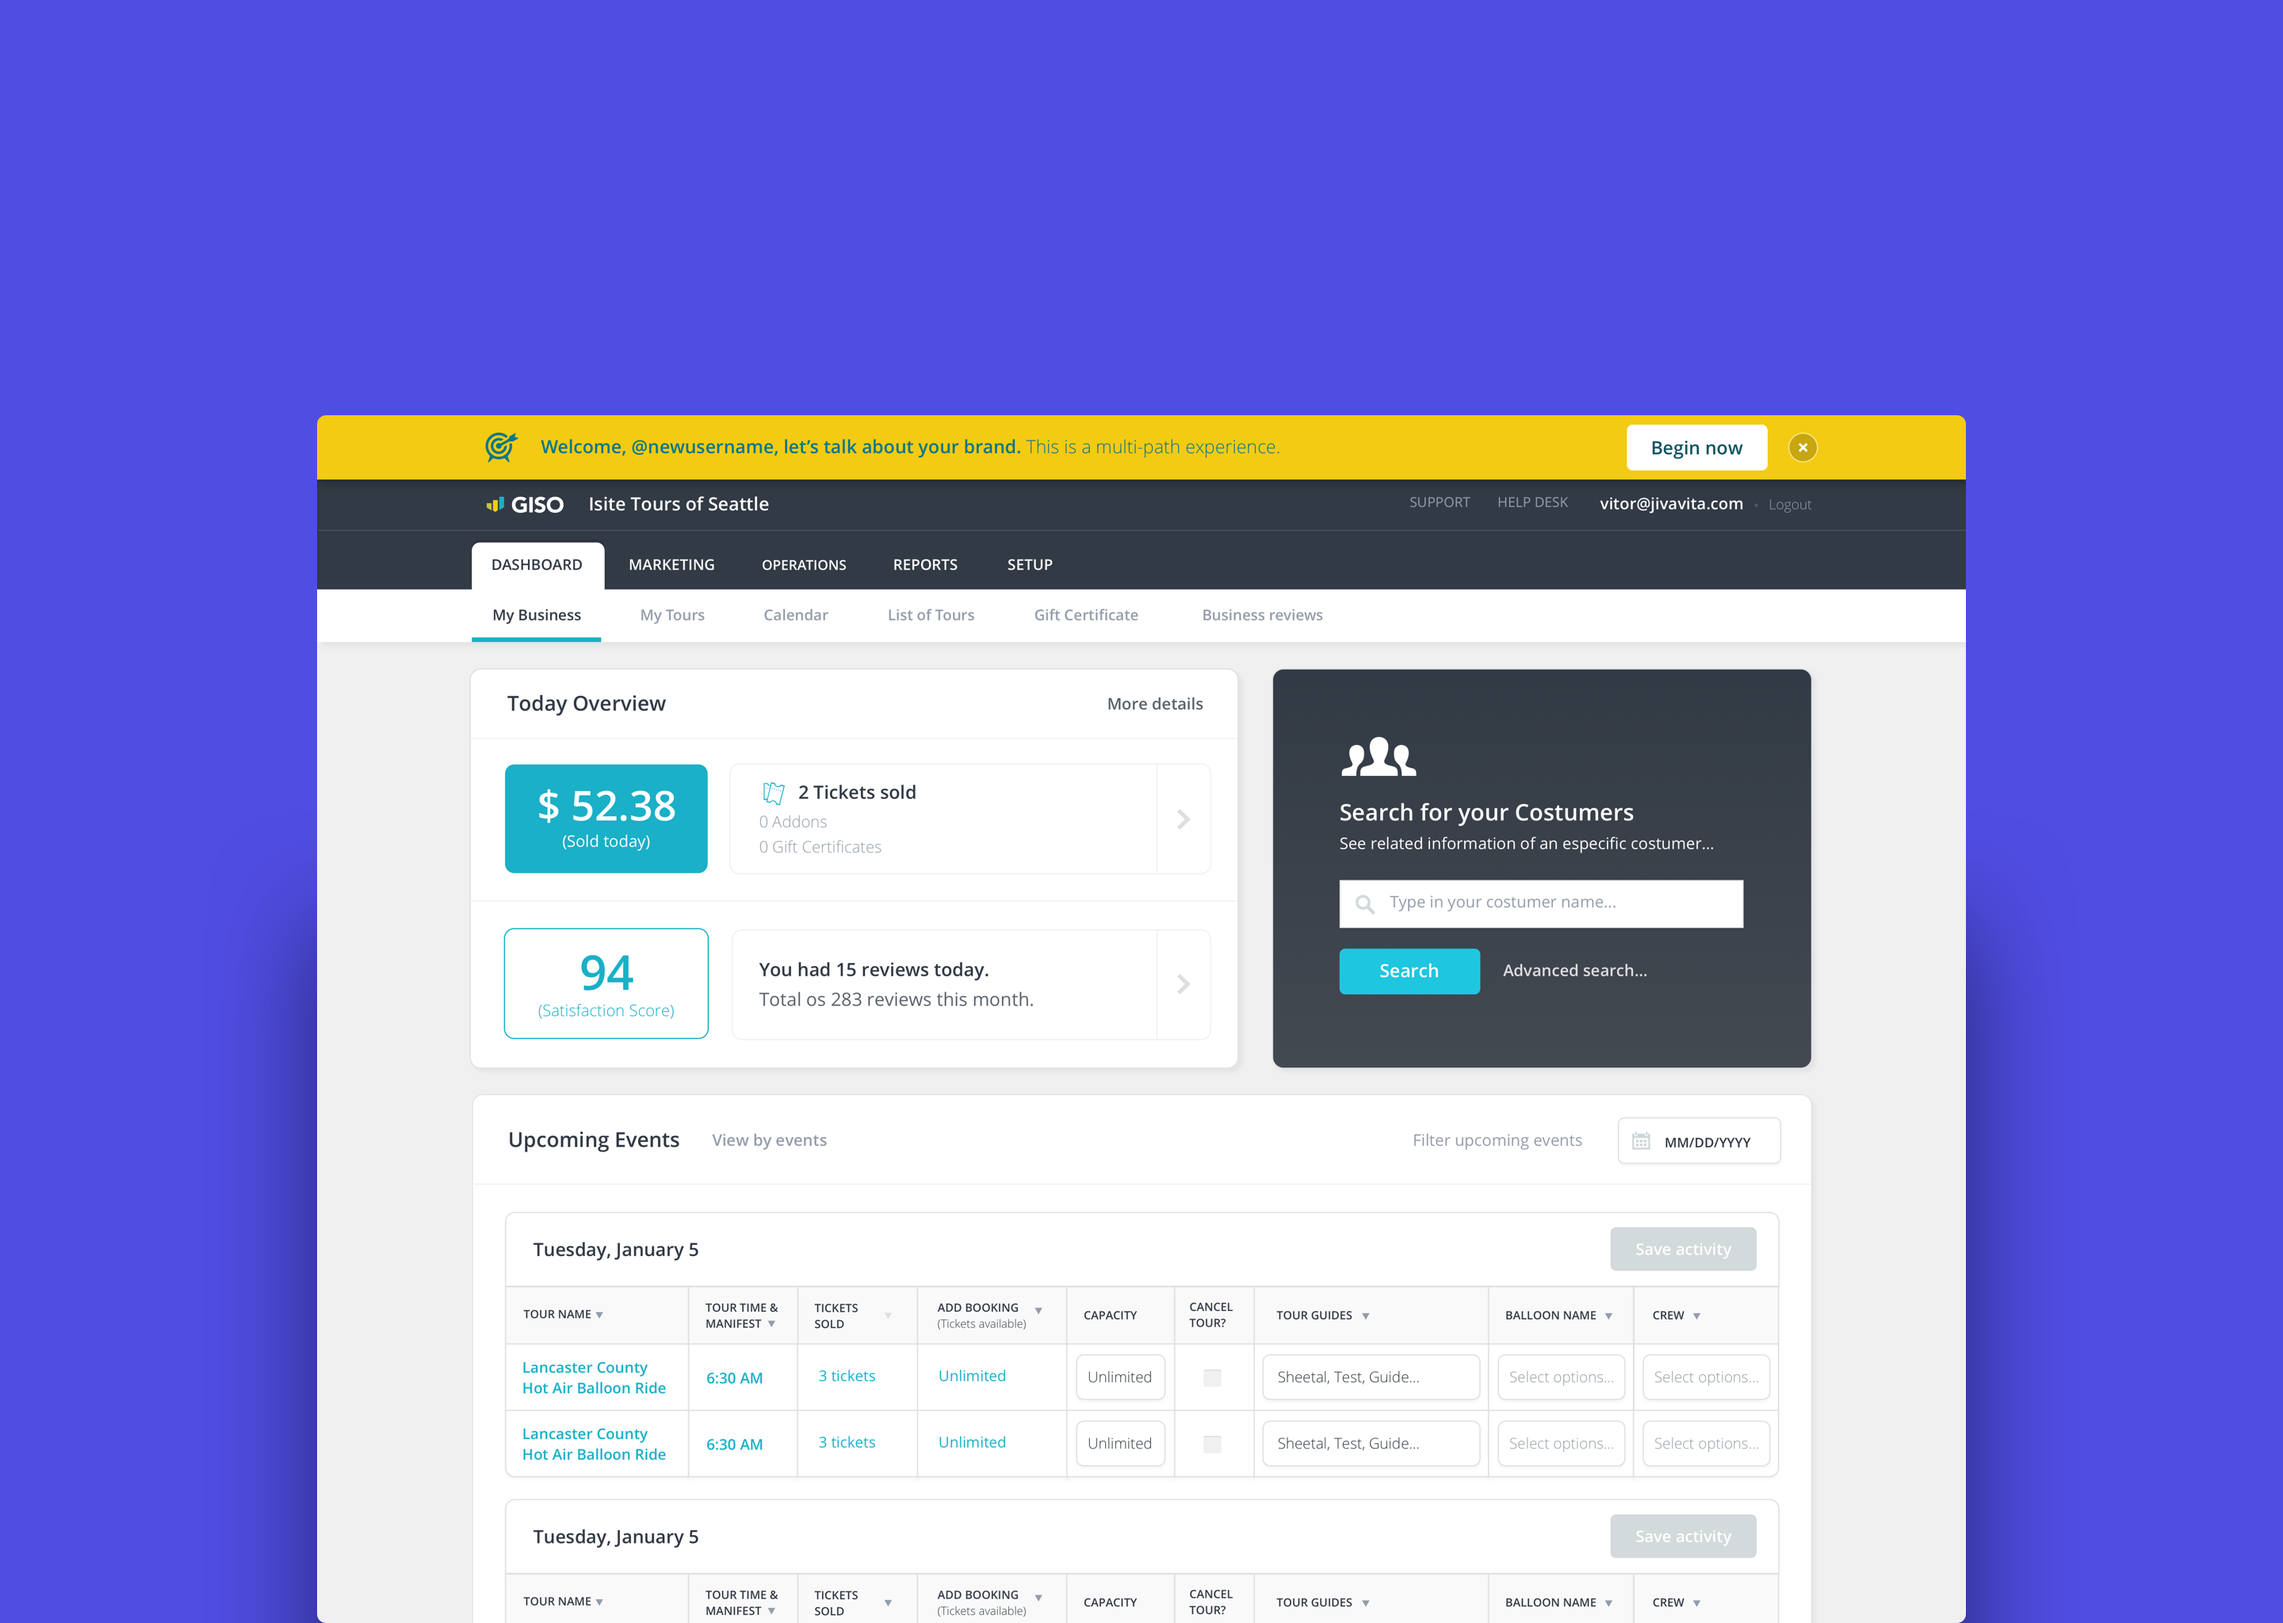
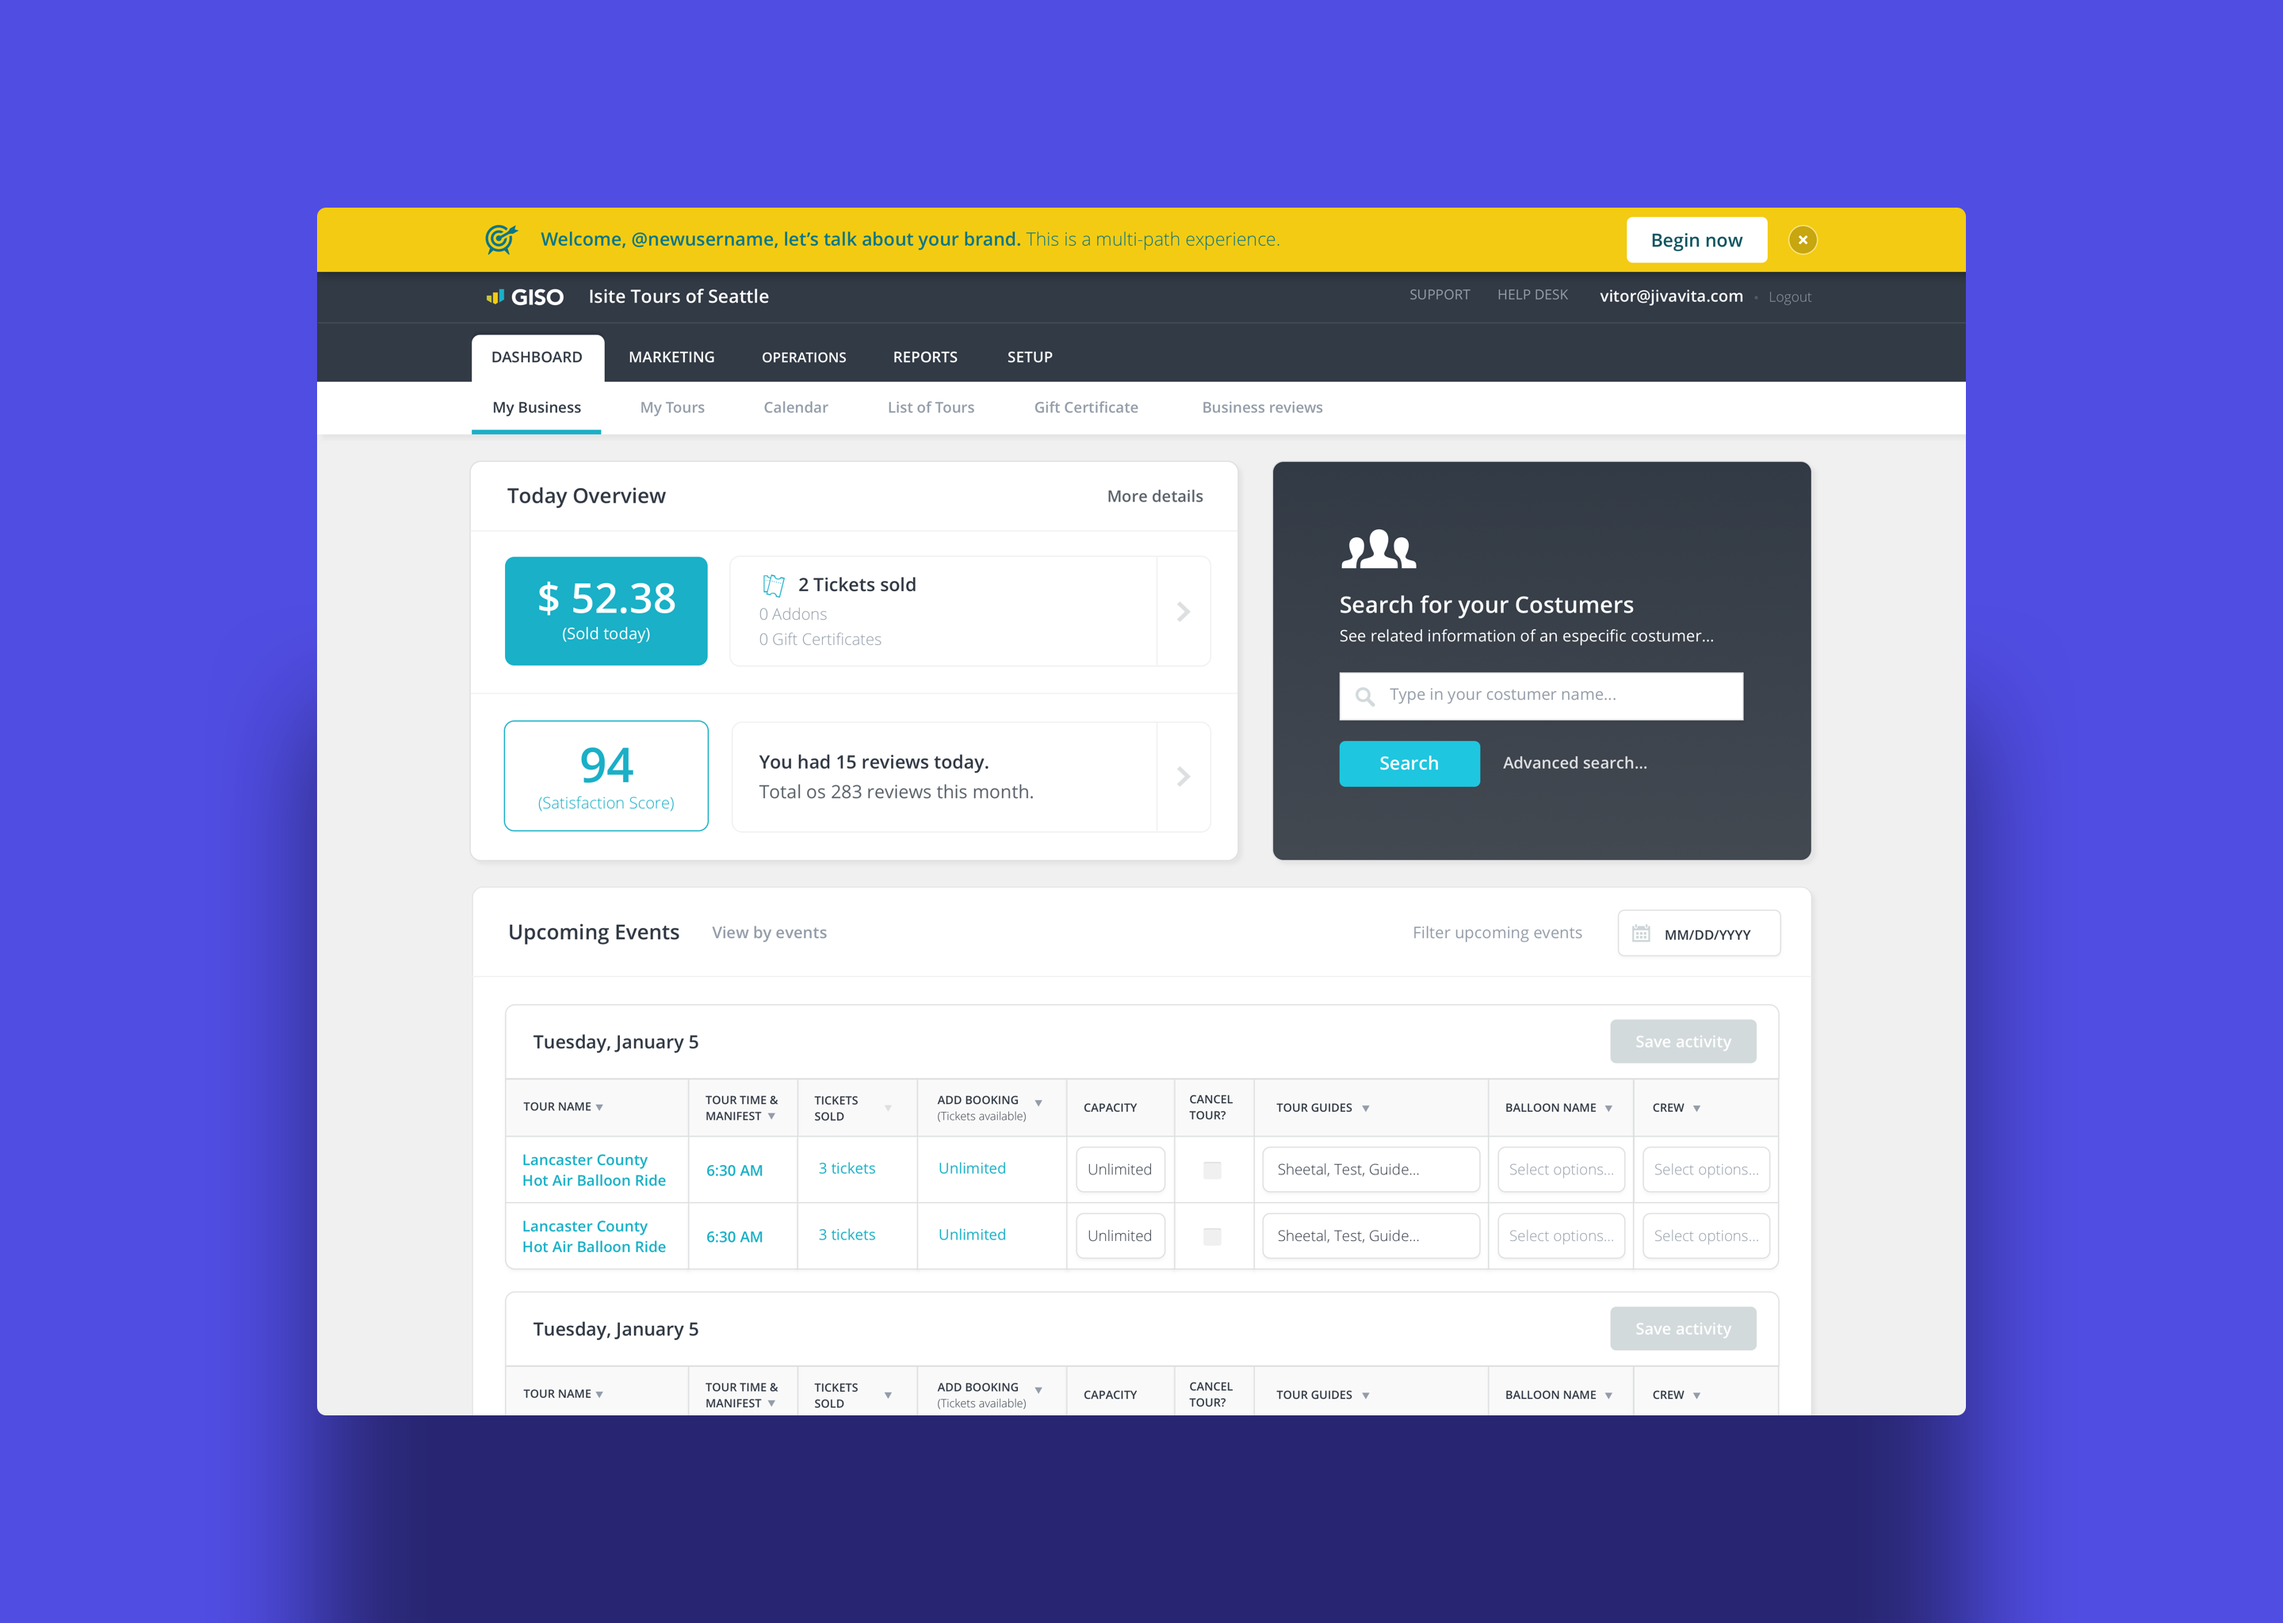
Adjusted Images

diff --git a/css/main.css b/css/main.css
@@ -132,7 +132,7 @@ footer .social-links a { margin: 0 88px 0 0; }
 /* Carousel */
 
 .carousel { margin-bottom: 32px; }
-.carousel-inner { overflow: hidden; background-color: #504DE3; max-height: 100vh; }
+.carousel-inner { overflow: hidden; background-color: #504DE3; height: 1024px; }
 .carousel-inner img { width: 100%; margin: 0 auto; }
 .carousel-control-prev, .carousel-control-next { display: none; }
 .flex-row { width: 100%; display: flex; flex-direction: row; }
